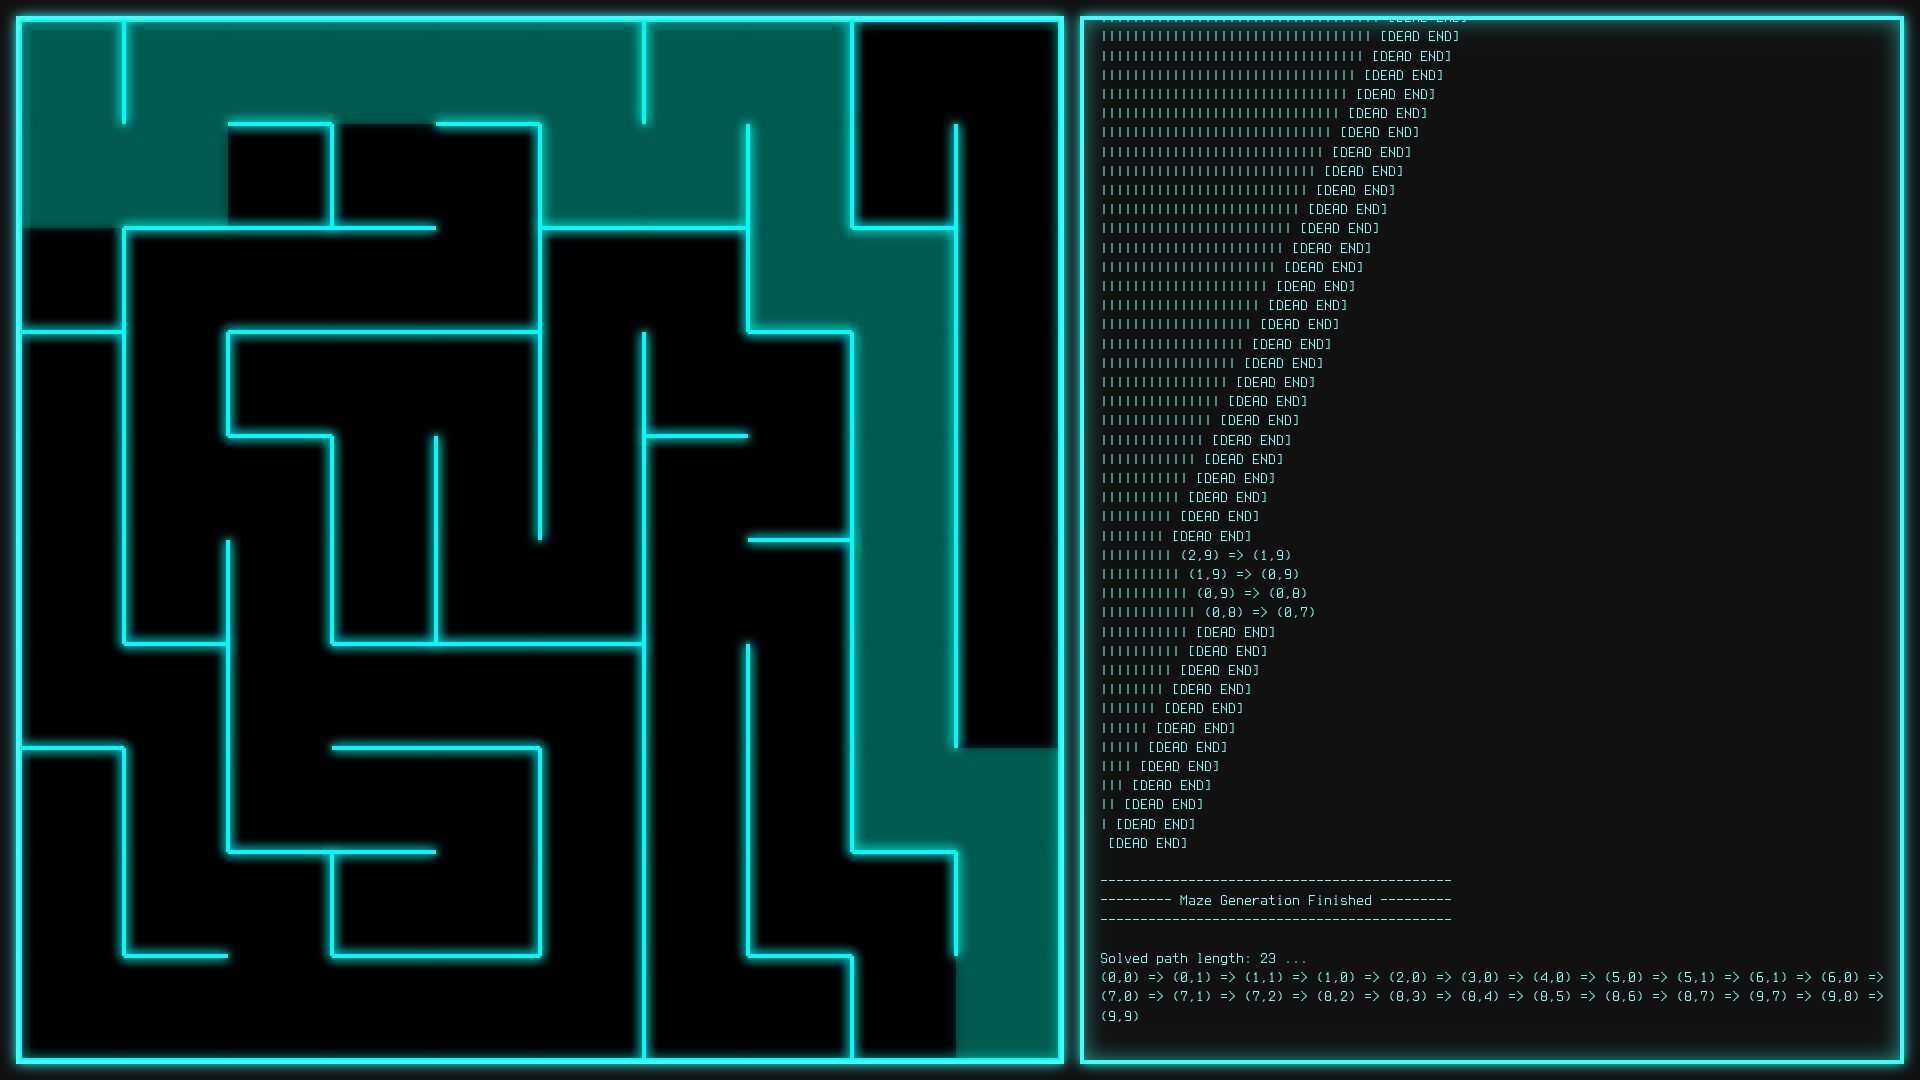
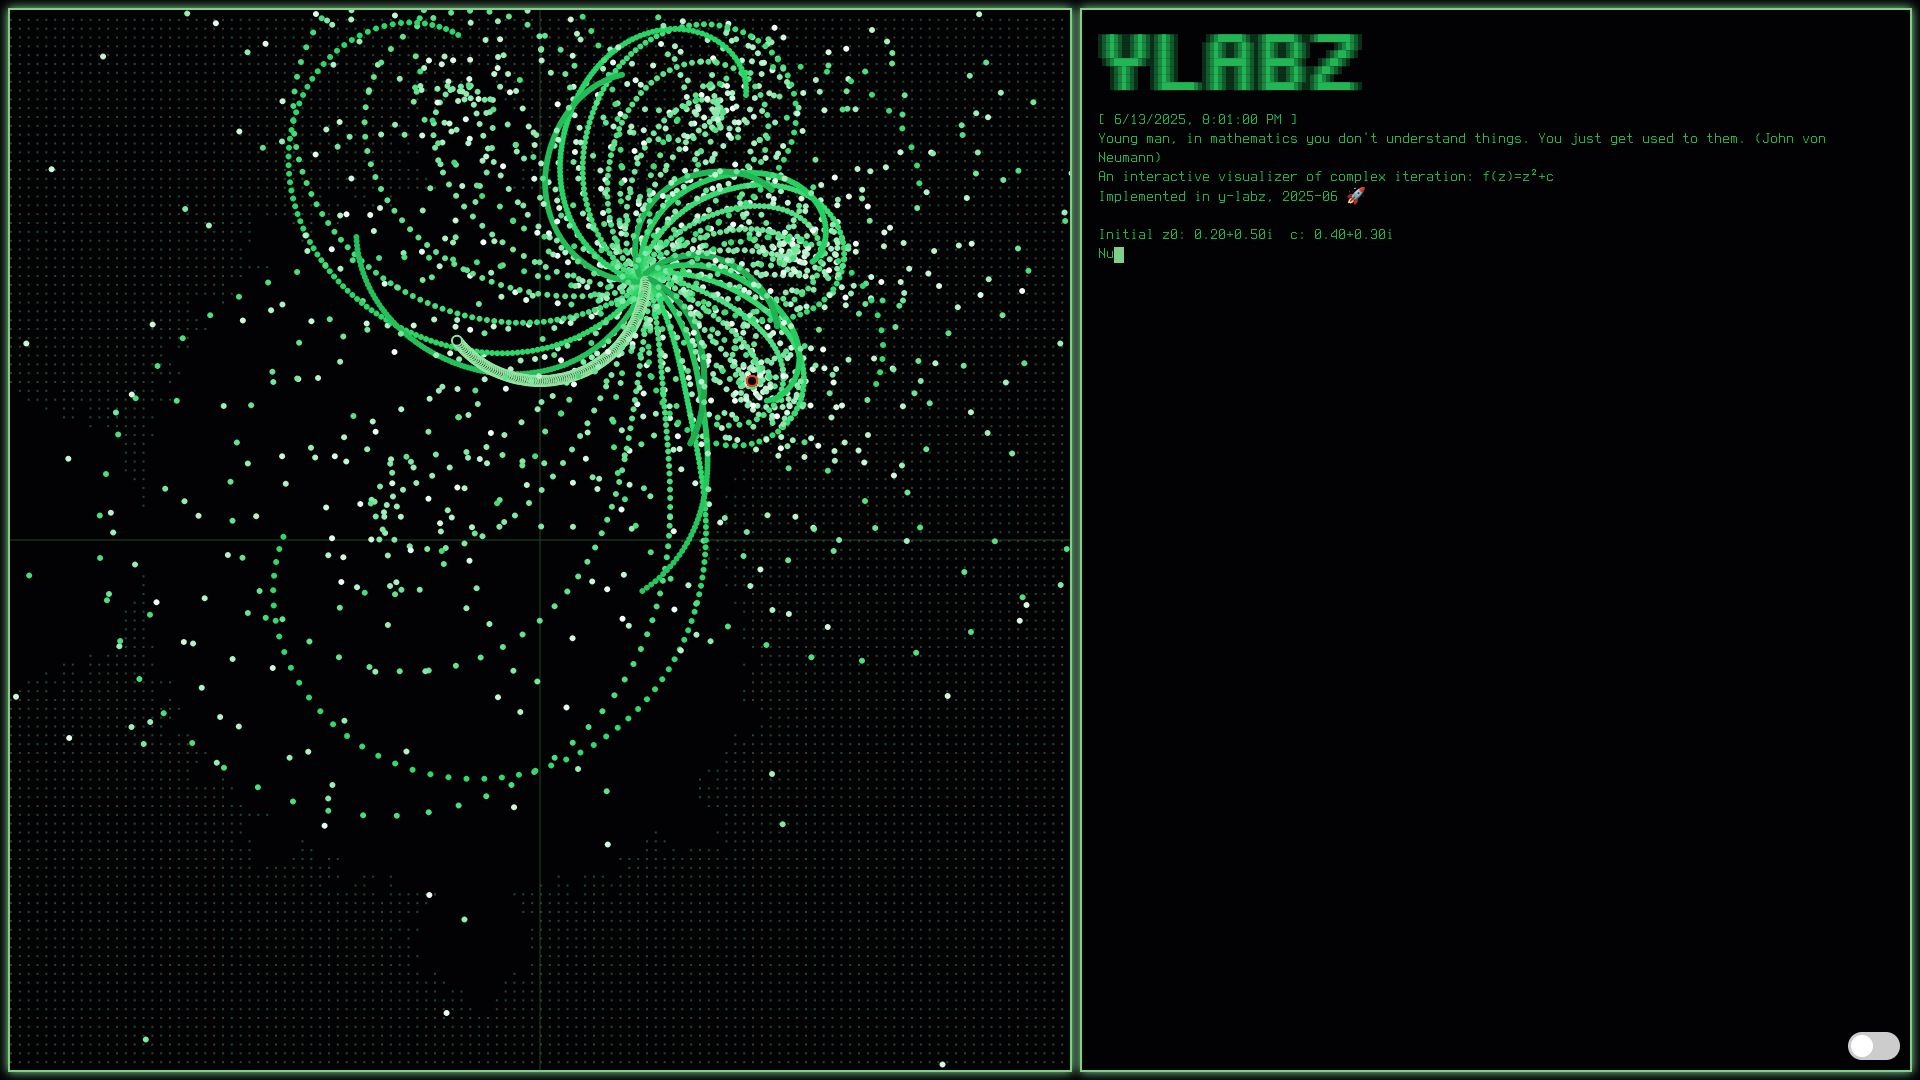
testing...

diff --git a/numbers/game.js b/numbers/game.js
@@ -1,5 +1,4 @@
-// colorswall.com/palette/868  matrix colors palette
-//
+// 2025.06, y-labz
 //-----------------------------------------------------
 const banner = `
 ░▒▓█▓▒░░▒▓█▓▒░▒▓█▓▒░       ░▒▓██████▓▒░░▒▓███████▓▒░░▒▓████████▓▒░ 
@@ -287,7 +286,7 @@ function drawIter(z0, c, n) {
     // drawLine(z, z1, "#80ce87", 1);
     // drawCircle(z1, "#92e5a1", 3); //z0 draw extra
     if (lineFlag) {
-      drawLine(z, z1, `hsl(141, 68%, ${40+i*2}%)`, 1);
+      drawLine(z, z1, `hsl(141, 68%, ${l0 + i * li}%)`, 1);
     }
     drawCircle(z1, `hsl(141, 68%, ${l0 + i * li}%)`, 3);
     z = z1;
@@ -316,7 +315,6 @@ async function demo1(trail) {
   const df = (Math.PI * 2) / n;
   let f = Math.PI * 0.75; //ini
   let end = n * 1; //config
-  // if (trail) end = n;
 
   for (i = 0; i <= end; i++) {
     if (!trail) refreshCanvas();
@@ -337,7 +335,6 @@ async function demo2(trail) {
   const df = (Math.PI * 2) / n;
   let f = 0; //ini
   let end = n * 1;
-  // if (trail) end = n;
 
   for (i = 0; i < end; i++) {
     if (!trail) refreshCanvas();
@@ -397,15 +394,15 @@ async function main() {
   await queueLog("\n[ " + now + " ]");
   await queueLog(quote);
   await queueLog("An interactive visualizer of complex iteration: f(z)=z²+c");
-  await queueLog("Implemented by y-labz, 2025-06 🚀");
-  await queueLog("Initial z0: 0.20+0.50i  c: 0.40+0.30i");
+  await queueLog("Implemented in y-labz, 2025-06 🚀");
+  await queueLog("\nInitial z0: 0.20+0.50i  c: 0.40+0.30i");
   await queueLog("Number of iterations: 50");
+  await queueLog("(Use desktop instead of mobile to reveal its full beauty)");
   await queueLog("Complex plane from -1-1i to +1+1i");
-  await queueLog("Use slider to toggle line");
-  await queueLog("Drag white circle to adjust z0 value");
-  await queueLog("Drag red circle to adjust c value");
-  // await queueLog("Init cell x = " + current.x + " y = " + current.y);
-  //
+  await queueLog("\nYes, this page is interactive:");
+  await queueLog("* use slider to toggle line");
+  await queueLog("* drag white circle (now in galactic center) to adjust z0 value");
+  await queueLog("* drag red circle to adjust c value");
 }
 
 main();
